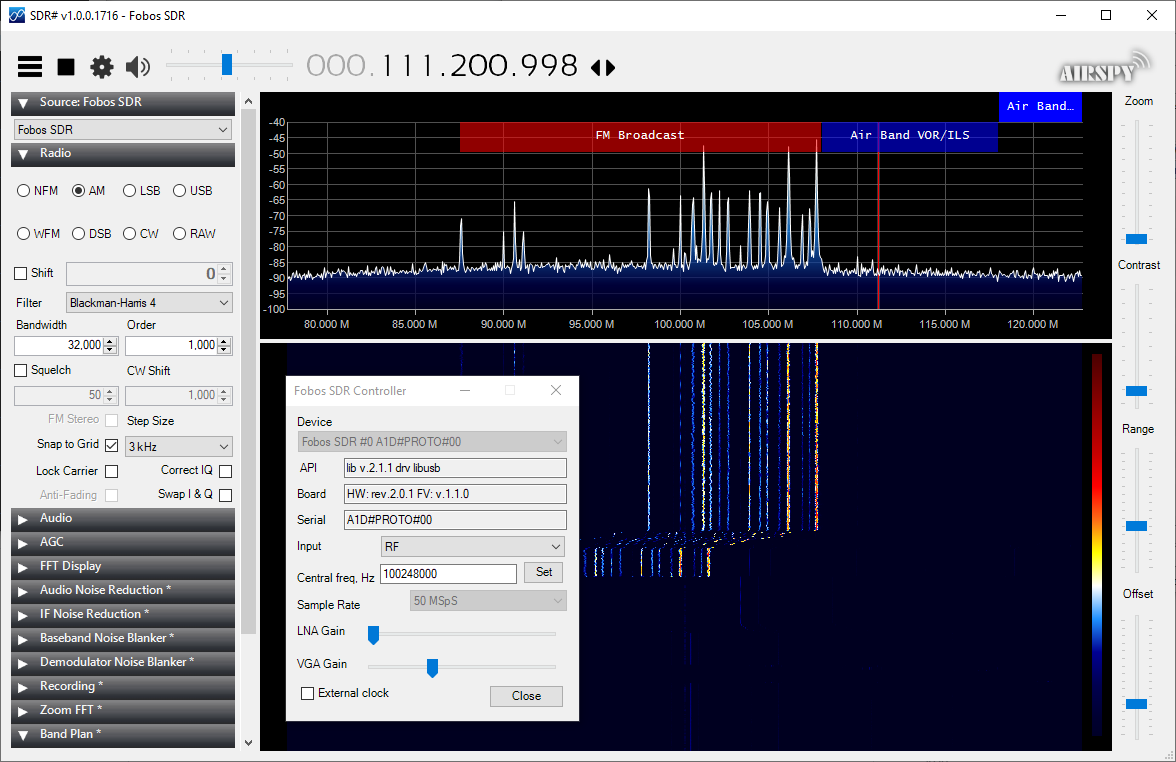
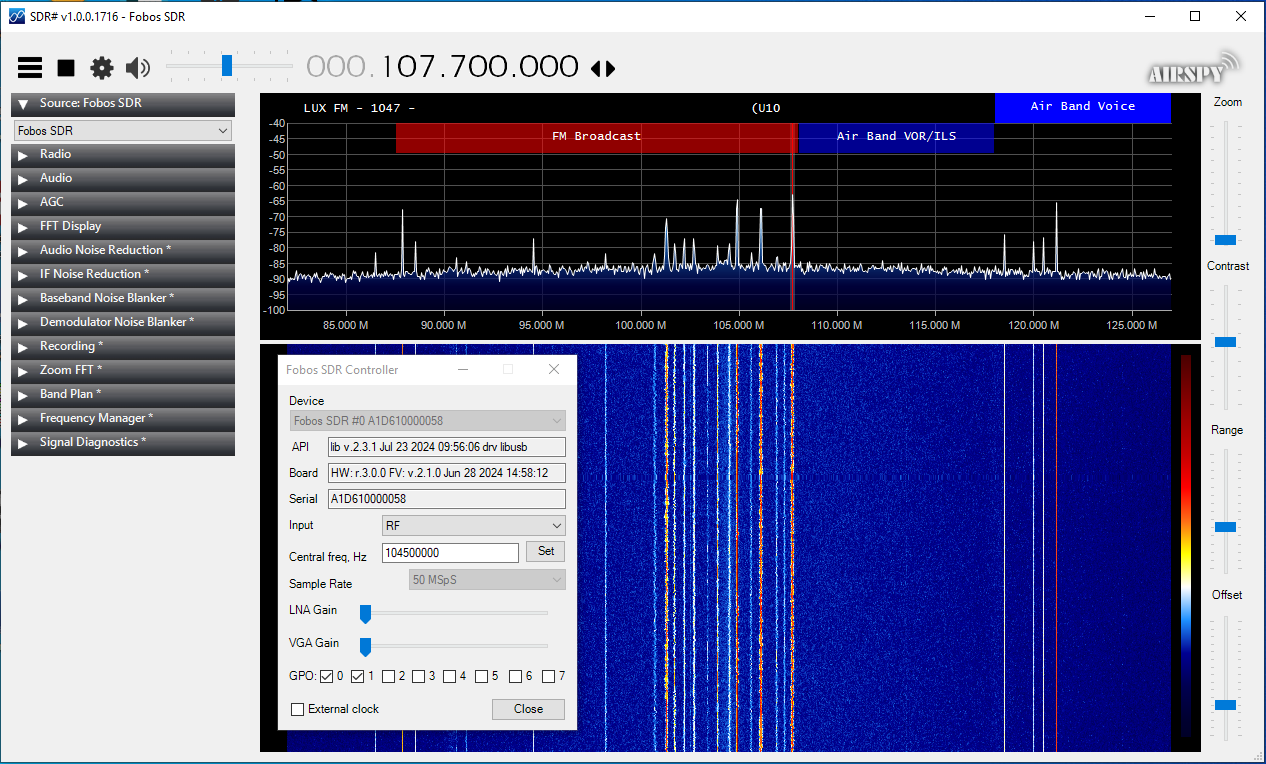
libfobos v.2.3.1 support

diff --git a/SDRSharp.FobosSDR/FobosSDRControllerDialog.Designer.cs b/SDRSharp.FobosSDR/FobosSDRControllerDialog.Designer.cs
@@ -52,6 +52,15 @@
             this.toolTip1 = new System.Windows.Forms.ToolTip(this.components);
             this.ComboBox_Input = new System.Windows.Forms.ComboBox();
             this.label9 = new System.Windows.Forms.Label();
+            this.label10 = new System.Windows.Forms.Label();
+            this.checkBox_GPO0 = new System.Windows.Forms.CheckBox();
+            this.checkBox_GPO1 = new System.Windows.Forms.CheckBox();
+            this.checkBox_GPO2 = new System.Windows.Forms.CheckBox();
+            this.checkBox_GPO3 = new System.Windows.Forms.CheckBox();
+            this.checkBox_GPO4 = new System.Windows.Forms.CheckBox();
+            this.checkBox_GPO5 = new System.Windows.Forms.CheckBox();
+            this.checkBox_GPO6 = new System.Windows.Forms.CheckBox();
+            this.checkBox_GPO7 = new System.Windows.Forms.CheckBox();
             ((System.ComponentModel.ISupportInitialize)(this.TrackBar_LNA)).BeginInit();
             ((System.ComponentModel.ISupportInitialize)(this.TrackBar_VGA)).BeginInit();
             this.SuspendLayout();
@@ -62,7 +71,7 @@
             this.deviceComboBox.FormattingEnabled = true;
             this.deviceComboBox.Location = new System.Drawing.Point(12, 25);
             this.deviceComboBox.Name = "deviceComboBox";
-            this.deviceComboBox.Size = new System.Drawing.Size(269, 21);
+            this.deviceComboBox.Size = new System.Drawing.Size(276, 21);
             this.deviceComboBox.TabIndex = 0;
             this.deviceComboBox.SelectedIndexChanged += new System.EventHandler(this.deviceComboBox_SelectedIndexChanged);
             // 
@@ -97,12 +106,8 @@
             "16 MSpS",
             "12.5 MSpS",
             "10 MSpS",
-            "8 MSpS",
-            "6.4 MSpS",
-            "6.25 MSpS",
-            "5 MSpS",
-            "4 MSpS"});
-            this.samplerateComboBox.Location = new System.Drawing.Point(124, 184);
+            "8 MSpS"});
+            this.samplerateComboBox.Location = new System.Drawing.Point(131, 184);
             this.samplerateComboBox.Name = "samplerateComboBox";
             this.samplerateComboBox.Size = new System.Drawing.Size(157, 21);
             this.samplerateComboBox.TabIndex = 3;
@@ -130,7 +135,7 @@
             // 
             // close
             // 
-            this.close.Location = new System.Drawing.Point(203, 279);
+            this.close.Location = new System.Drawing.Point(213, 313);
             this.close.Name = "close";
             this.close.Size = new System.Drawing.Size(75, 23);
             this.close.TabIndex = 7;
@@ -166,9 +171,9 @@
             // TextBox_API
             // 
             this.TextBox_API.BackColor = System.Drawing.SystemColors.ButtonFace;
-            this.TextBox_API.Location = new System.Drawing.Point(58, 52);
+            this.TextBox_API.Location = new System.Drawing.Point(50, 52);
             this.TextBox_API.Name = "TextBox_API";
-            this.TextBox_API.Size = new System.Drawing.Size(223, 20);
+            this.TextBox_API.Size = new System.Drawing.Size(238, 20);
             this.TextBox_API.TabIndex = 24;
             // 
             // label3
@@ -192,9 +197,9 @@
             // TextBox_Board
             // 
             this.TextBox_Board.BackColor = System.Drawing.SystemColors.ButtonFace;
-            this.TextBox_Board.Location = new System.Drawing.Point(58, 78);
+            this.TextBox_Board.Location = new System.Drawing.Point(50, 78);
             this.TextBox_Board.Name = "TextBox_Board";
-            this.TextBox_Board.Size = new System.Drawing.Size(223, 20);
+            this.TextBox_Board.Size = new System.Drawing.Size(238, 20);
             this.TextBox_Board.TabIndex = 26;
             // 
             // label8
@@ -209,15 +214,15 @@
             // TextBox_Serial
             // 
             this.TextBox_Serial.BackColor = System.Drawing.SystemColors.ButtonFace;
-            this.TextBox_Serial.Location = new System.Drawing.Point(58, 104);
+            this.TextBox_Serial.Location = new System.Drawing.Point(50, 104);
             this.TextBox_Serial.Name = "TextBox_Serial";
-            this.TextBox_Serial.Size = new System.Drawing.Size(223, 20);
+            this.TextBox_Serial.Size = new System.Drawing.Size(238, 20);
             this.TextBox_Serial.TabIndex = 28;
             // 
             // CheckBox_ExternalClock
             // 
             this.CheckBox_ExternalClock.AutoSize = true;
-            this.CheckBox_ExternalClock.Location = new System.Drawing.Point(15, 279);
+            this.CheckBox_ExternalClock.Location = new System.Drawing.Point(13, 316);
             this.CheckBox_ExternalClock.Name = "CheckBox_ExternalClock";
             this.CheckBox_ExternalClock.Size = new System.Drawing.Size(93, 17);
             this.CheckBox_ExternalClock.TabIndex = 31;
@@ -227,7 +232,7 @@
             // 
             // button_SetCenterFrequency
             // 
-            this.button_SetCenterFrequency.Location = new System.Drawing.Point(237, 155);
+            this.button_SetCenterFrequency.Location = new System.Drawing.Point(247, 155);
             this.button_SetCenterFrequency.Name = "button_SetCenterFrequency";
             this.button_SetCenterFrequency.Size = new System.Drawing.Size(41, 23);
             this.button_SetCenterFrequency.TabIndex = 32;
@@ -238,7 +243,7 @@
             // 
             // TextBox_CenterFrequency
             // 
-            this.TextBox_CenterFrequency.Location = new System.Drawing.Point(94, 158);
+            this.TextBox_CenterFrequency.Location = new System.Drawing.Point(104, 158);
             this.TextBox_CenterFrequency.Name = "TextBox_CenterFrequency";
             this.TextBox_CenterFrequency.Size = new System.Drawing.Size(137, 20);
             this.TextBox_CenterFrequency.TabIndex = 33;
@@ -261,7 +266,7 @@
             "IQ (HF1+HF2) direct sampling",
             "HF1 direct sampling",
             "HF2 direct sampling"});
-            this.ComboBox_Input.Location = new System.Drawing.Point(95, 130);
+            this.ComboBox_Input.Location = new System.Drawing.Point(104, 130);
             this.ComboBox_Input.Name = "ComboBox_Input";
             this.ComboBox_Input.Size = new System.Drawing.Size(184, 21);
             this.ComboBox_Input.TabIndex = 35;
@@ -276,11 +281,117 @@
             this.label9.TabIndex = 36;
             this.label9.Text = "Input";
             // 
+            // label10
+            // 
+            this.label10.AutoSize = true;
+            this.label10.Location = new System.Drawing.Point(9, 284);
+            this.label10.Name = "label10";
+            this.label10.Size = new System.Drawing.Size(33, 13);
+            this.label10.TabIndex = 37;
+            this.label10.Text = "GPO:";
+            // 
+            // checkBox_GPO0
+            // 
+            this.checkBox_GPO0.AutoSize = true;
+            this.checkBox_GPO0.Location = new System.Drawing.Point(42, 283);
+            this.checkBox_GPO0.Name = "checkBox_GPO0";
+            this.checkBox_GPO0.Size = new System.Drawing.Size(32, 17);
+            this.checkBox_GPO0.TabIndex = 38;
+            this.checkBox_GPO0.Text = "0";
+            this.checkBox_GPO0.UseVisualStyleBackColor = true;
+            this.checkBox_GPO0.CheckedChanged += new System.EventHandler(this.checkBox_GPO0_CheckedChanged);
+            // 
+            // checkBox_GPO1
+            // 
+            this.checkBox_GPO1.AutoSize = true;
+            this.checkBox_GPO1.Location = new System.Drawing.Point(73, 283);
+            this.checkBox_GPO1.Name = "checkBox_GPO1";
+            this.checkBox_GPO1.Size = new System.Drawing.Size(32, 17);
+            this.checkBox_GPO1.TabIndex = 39;
+            this.checkBox_GPO1.Text = "1";
+            this.checkBox_GPO1.UseVisualStyleBackColor = true;
+            this.checkBox_GPO1.CheckedChanged += new System.EventHandler(this.checkBox_GPO0_CheckedChanged);
+            // 
+            // checkBox_GPO2
+            // 
+            this.checkBox_GPO2.AutoSize = true;
+            this.checkBox_GPO2.Location = new System.Drawing.Point(104, 283);
+            this.checkBox_GPO2.Name = "checkBox_GPO2";
+            this.checkBox_GPO2.Size = new System.Drawing.Size(32, 17);
+            this.checkBox_GPO2.TabIndex = 40;
+            this.checkBox_GPO2.Text = "2";
+            this.checkBox_GPO2.UseVisualStyleBackColor = true;
+            this.checkBox_GPO2.CheckedChanged += new System.EventHandler(this.checkBox_GPO0_CheckedChanged);
+            // 
+            // checkBox_GPO3
+            // 
+            this.checkBox_GPO3.AutoSize = true;
+            this.checkBox_GPO3.Location = new System.Drawing.Point(134, 283);
+            this.checkBox_GPO3.Name = "checkBox_GPO3";
+            this.checkBox_GPO3.Size = new System.Drawing.Size(32, 17);
+            this.checkBox_GPO3.TabIndex = 41;
+            this.checkBox_GPO3.Text = "3";
+            this.checkBox_GPO3.UseVisualStyleBackColor = true;
+            this.checkBox_GPO3.CheckedChanged += new System.EventHandler(this.checkBox_GPO0_CheckedChanged);
+            // 
+            // checkBox_GPO4
+            // 
+            this.checkBox_GPO4.AutoSize = true;
+            this.checkBox_GPO4.Location = new System.Drawing.Point(165, 283);
+            this.checkBox_GPO4.Name = "checkBox_GPO4";
+            this.checkBox_GPO4.Size = new System.Drawing.Size(32, 17);
+            this.checkBox_GPO4.TabIndex = 42;
+            this.checkBox_GPO4.Text = "4";
+            this.checkBox_GPO4.UseVisualStyleBackColor = true;
+            this.checkBox_GPO4.CheckedChanged += new System.EventHandler(this.checkBox_GPO0_CheckedChanged);
+            // 
+            // checkBox_GPO5
+            // 
+            this.checkBox_GPO5.AutoSize = true;
+            this.checkBox_GPO5.Location = new System.Drawing.Point(197, 283);
+            this.checkBox_GPO5.Name = "checkBox_GPO5";
+            this.checkBox_GPO5.Size = new System.Drawing.Size(32, 17);
+            this.checkBox_GPO5.TabIndex = 43;
+            this.checkBox_GPO5.Text = "5";
+            this.checkBox_GPO5.UseVisualStyleBackColor = true;
+            this.checkBox_GPO5.CheckedChanged += new System.EventHandler(this.checkBox_GPO0_CheckedChanged);
+            // 
+            // checkBox_GPO6
+            // 
+            this.checkBox_GPO6.AutoSize = true;
+            this.checkBox_GPO6.Location = new System.Drawing.Point(231, 283);
+            this.checkBox_GPO6.Name = "checkBox_GPO6";
+            this.checkBox_GPO6.Size = new System.Drawing.Size(32, 17);
+            this.checkBox_GPO6.TabIndex = 44;
+            this.checkBox_GPO6.Text = "6";
+            this.checkBox_GPO6.UseVisualStyleBackColor = true;
+            this.checkBox_GPO6.CheckedChanged += new System.EventHandler(this.checkBox_GPO0_CheckedChanged);
+            // 
+            // checkBox_GPO7
+            // 
+            this.checkBox_GPO7.AutoSize = true;
+            this.checkBox_GPO7.Location = new System.Drawing.Point(264, 283);
+            this.checkBox_GPO7.Name = "checkBox_GPO7";
+            this.checkBox_GPO7.Size = new System.Drawing.Size(32, 17);
+            this.checkBox_GPO7.TabIndex = 45;
+            this.checkBox_GPO7.Text = "7";
+            this.checkBox_GPO7.UseVisualStyleBackColor = true;
+            this.checkBox_GPO7.CheckedChanged += new System.EventHandler(this.checkBox_GPO0_CheckedChanged);
+            // 
             // FobosSDRControllerDialog
             // 
             this.AutoScaleDimensions = new System.Drawing.SizeF(6F, 13F);
             this.AutoScaleMode = System.Windows.Forms.AutoScaleMode.Font;
-            this.ClientSize = new System.Drawing.Size(293, 315);
+            this.ClientSize = new System.Drawing.Size(299, 345);
+            this.Controls.Add(this.checkBox_GPO7);
+            this.Controls.Add(this.checkBox_GPO6);
+            this.Controls.Add(this.checkBox_GPO5);
+            this.Controls.Add(this.checkBox_GPO4);
+            this.Controls.Add(this.checkBox_GPO3);
+            this.Controls.Add(this.checkBox_GPO2);
+            this.Controls.Add(this.checkBox_GPO1);
+            this.Controls.Add(this.checkBox_GPO0);
+            this.Controls.Add(this.label10);
             this.Controls.Add(this.label9);
             this.Controls.Add(this.ComboBox_Input);
             this.Controls.Add(this.close);
@@ -341,5 +452,14 @@
         private System.Windows.Forms.Label label7;
         private System.Windows.Forms.ComboBox ComboBox_Input;
         private System.Windows.Forms.Label label9;
+        private System.Windows.Forms.Label label10;
+        private System.Windows.Forms.CheckBox checkBox_GPO0;
+        private System.Windows.Forms.CheckBox checkBox_GPO1;
+        private System.Windows.Forms.CheckBox checkBox_GPO2;
+        private System.Windows.Forms.CheckBox checkBox_GPO3;
+        private System.Windows.Forms.CheckBox checkBox_GPO4;
+        private System.Windows.Forms.CheckBox checkBox_GPO5;
+        private System.Windows.Forms.CheckBox checkBox_GPO6;
+        private System.Windows.Forms.CheckBox checkBox_GPO7;
     }
 }

diff --git a/SDRSharp.FobosSDR/FobosSDRDevice.cs b/SDRSharp.FobosSDR/FobosSDRDevice.cs
@@ -38,6 +38,7 @@ namespace SDRSharp.FobosSDR
         private int _external_clock = 0;
         private int _LNA_Gain = 0;
         private int _VGA_Gain = 0;
+        private int _UserGPO = 0;
 
         private GCHandle _gcHandle;
         private Thread _worker;
@@ -73,6 +74,8 @@ namespace SDRSharp.FobosSDR
             }
             lib_version = System.Text.Encoding.UTF8.GetString(buf0).TrimEnd('\0');
             drv_version = System.Text.Encoding.UTF8.GetString(buf1).TrimEnd('\0');
+            Array.Clear(buf0, 0, buf0.Length);
+            Array.Clear(buf1, 0, buf1.Length);
             unsafe
             {
                 fixed(byte* p_buf0 = &buf0[0]) fixed(byte* p_buf1 = &buf1[0]) fixed(byte* p_buf2 = &buf2[0]) fixed(byte* p_buf3 = &buf3[0]) fixed(byte* p_buf4 = &buf4[0])
@@ -82,6 +85,7 @@ namespace SDRSharp.FobosSDR
             }
             hw_revision = System.Text.Encoding.UTF8.GetString(buf0).TrimEnd('\0');
             fw_version = System.Text.Encoding.UTF8.GetString(buf1).TrimEnd('\0');
+
             serial = System.Text.Encoding.UTF8.GetString(buf4).TrimEnd('\0');
 
             Frequency = DefaultFrequency;
@@ -247,6 +251,18 @@ namespace SDRSharp.FobosSDR
                 }
             }
         }
+        unsafe public int UserGPO
+        {
+            get { return _UserGPO; }
+            set
+            {
+                _UserGPO = value;
+                if (_dev != IntPtr.Zero)
+                {
+                    NativeMethods.fobos_rx_set_user_gpo(_dev, (uint)_UserGPO);
+                }
+            }
+        }
 
         public bool IsStreaming
         {
@@ -271,22 +287,6 @@ namespace SDRSharp.FobosSDR
         {
             if (SamplesAvailable != null)
             {
-
-                //for (int i = 0; i < count; i++)
-                //{
-                //    Complex tmp = buffer[i * 4 + 1];
-                //    buffer[i * 4 + 1].Real = tmp.Imag;
-                //    buffer[i * 4 + 1].Imag = - tmp.Real;
-
-                //    tmp = buffer[i * 4 + 2];
-                //    buffer[i * 4 + 2].Real = -tmp.Real;
-                //    buffer[i * 4 + 2].Imag = -tmp.Imag;
-
-                //    tmp = buffer[i * 4 + 3];
-                //    buffer[i * 4 + 3].Real = -tmp.Imag;
-                //    buffer[i * 4 + 3].Imag = tmp.Real;
-                //}
-
                 if (_sampling_mode == 2)
                 {
                     int count = length / 4;
@@ -322,7 +322,6 @@ namespace SDRSharp.FobosSDR
                         buffer[i * 4 + 3].Imag = 0.0f;
                     }
                 }
-
                 _eventArgs.Buffer = buffer;
                 _eventArgs.Length = length;
                 SamplesAvailable(this, _eventArgs);

diff --git a/SDRSharp.FobosSDR/FobosSDRIO.cs b/SDRSharp.FobosSDR/FobosSDRIO.cs
@@ -44,7 +44,7 @@ namespace SDRSharp.FobosSDR
         //======================================================================
         public FobosSDRIO()
         {
-//            ConsoleHelper.CreateConsole();
+            //ConsoleHelper.CreateConsole();
             _index = -1;
             _gui = new FobosSDRControllerDialog(this);
         }
@@ -109,7 +109,7 @@ namespace SDRSharp.FobosSDR
                     _dev.LNAgain = _LNA_Gain;
                     _dev.VGAgain = _VGA_Gain;
                     ApiInfo = "lib v." + _dev.lib_version + " drv " + _dev.drv_version;
-                    BoardInfo = "HW: rev." + _dev.hw_revision + " FV: v." + _dev.fw_version;
+                    BoardInfo = "HW: r." + _dev.hw_revision + " FV: v." + _dev.fw_version;
                     Serial = _dev.serial;
                     _dev.SamplesAvailable += SamplesAvailableEvent;
                 }
@@ -428,6 +428,14 @@ namespace SDRSharp.FobosSDR
                     _main.CenterFrequency = (long)_frequency;
                 }
                 Console.WriteLine("_main.CenterFrequency = " + _main.CenterFrequency);
+            }
+        }
+        //======================================================================
+        public void SetUserGPO(Int32 value)
+        {
+            if (_dev != null)
+            {
+                _dev.UserGPO = value;
             }
         }
         //======================================================================

diff --git a/SDRSharp.FobosSDR/FobosSDRControllerDialog.cs b/SDRSharp.FobosSDR/FobosSDRControllerDialog.cs
@@ -29,6 +29,7 @@ namespace SDRSharp.FobosSDR
     {
         private readonly FobosSDRIO _owner;
         private bool _initialized;
+        private string[] _lna = { "none", "0dB", "16dB", "33dB" };
         public FobosSDRControllerDialog(FobosSDRIO owner)
         {
 
@@ -243,6 +244,20 @@ namespace SDRSharp.FobosSDR
             }
             Utils.SaveSetting("FobosSDR.SamplingMode", ComboBox_Input.SelectedIndex);
 
+        }
+
+        private void checkBox_GPO0_CheckedChanged(object sender, EventArgs e)
+        {
+            int gpo_value = 0;
+            gpo_value |= (Convert.ToInt32(checkBox_GPO0.Checked) << 0);
+            gpo_value |= (Convert.ToInt32(checkBox_GPO1.Checked) << 1);
+            gpo_value |= (Convert.ToInt32(checkBox_GPO2.Checked) << 2);
+            gpo_value |= (Convert.ToInt32(checkBox_GPO3.Checked) << 3);
+            gpo_value |= (Convert.ToInt32(checkBox_GPO4.Checked) << 4);
+            gpo_value |= (Convert.ToInt32(checkBox_GPO5.Checked) << 5);
+            gpo_value |= (Convert.ToInt32(checkBox_GPO6.Checked) << 6);
+            gpo_value |= (Convert.ToInt32(checkBox_GPO7.Checked) << 7);
+            _owner.SetUserGPO(gpo_value);
         }
     }
 }

diff --git a/SDRSharp.FobosSDR/NativeMethods.cs b/SDRSharp.FobosSDR/NativeMethods.cs
@@ -65,7 +65,7 @@ namespace SDRSharp.FobosSDR
         public static extern int fobos_rx_cancel_async(IntPtr dev);
 
         [DllImport(library_name, EntryPoint = "fobos_rx_set_user_gpo", CallingConvention = CallingConvention.Cdecl)]
-        public static extern int fobos_rx_set_user_gpo(IntPtr dev, uint index);
+        public static extern int fobos_rx_set_user_gpo(IntPtr dev, uint value);
 
         [DllImport(library_name, EntryPoint = "fobos_rx_set_clk_source", CallingConvention = CallingConvention.Cdecl)]
         public static extern int fobos_rx_set_clk_source(IntPtr dev, int value);
